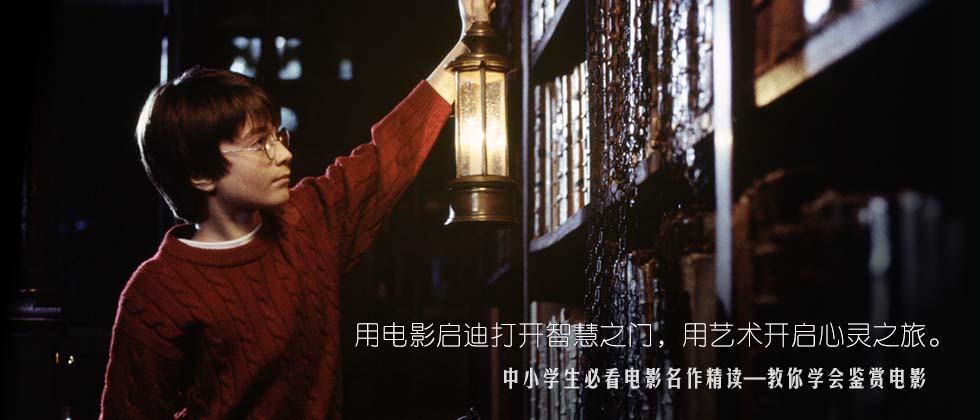
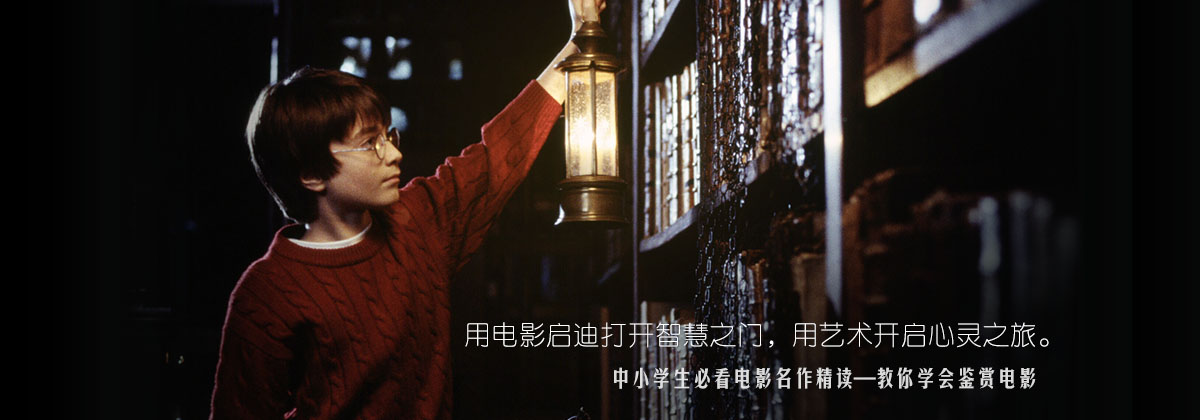
那好首页 轮播图 更改

diff --git a/application/views/www/studentHomePage/index.html b/application/views/www/studentHomePage/index.html
@@ -21,18 +21,15 @@
 		<div class="roll">
 			<ul class="cf">
 				<li class="fl rollshow" style="background:url({$static_url}{$static_version}/images/studentHomePage/roll/rollBg1.gif);">
-					<a target="_blank" href="{$course_url}ke_1.html">
-						<img src="{static_url('/images/studentHomePage/roll/roll1.jpg')}">
+					<a target="_blank" href="{$course_url}ke_1.html" class="roll1">
 					</a>
 				</li>
-				<li class="fl" style="background:#000000;">
-					<a target="_blank" href="{$course_url}ke_2.html">
-						<img src="{static_url('/images/studentHomePage/roll/roll2.jpg')}">
+				<li class="fl">
+					<a target="_blank" href="{$course_url}ke_2.html" class="roll2">
 					</a>
 				</li>
-				<li class="fl" style="background:#5f5d6a;">
-					<a target="_blank" href="{$course_url}ke_4.html">
-						<img src="{static_url('/images/studentHomePage/roll/roll3.jpg')}">
+				<li class="fl">
+					<a target="_blank" href="{$course_url}ke_4.html" class="roll3">
 					</a>
 				</li>
 			</ul>
@@ -123,8 +120,8 @@
 				<span class="fl"></span>
 				<span class="fr"></span>
 				<div class="coopere cf">
-					<h3 class="fl">徐小平老师天使投资</h3>
-					<h3 class="fl">龚海燕（小龙女）倾心创办</h3>
+					<h3 class="fl">徐小平天使投资</h3>
+					<h3 class="fl">龚海燕倾心创办</h3>
 					<h3 class="fl">北京大学教育学院战略合作</h3>
 				</div>
 			</div>

diff --git a/static/debug/css/studentHomePage/homePage.css b/static/debug/css/studentHomePage/homePage.css
@@ -3,11 +3,13 @@
 /* ´óÍ¼¹ö¶¯ ¿ªÊ¼*/
 .studentHomePage .roll{ overflow: hidden;position: relative;}
 .studentHomePage .roll ul{ width:100%;overflow:hidden;height:420px;}
-.studentHomePage .roll img{ height:420px;width: 980px;}
 .studentHomePage .rollNav{ position: absolute;bottom:12px;z-index: 300;left:50%;margin-left: -40px;}
 .studentHomePage .roll ul li{ position:absolute;opacity:0;width:100%;}
 .studentHomePage .roll ul li.rollshow{ opacity:1;z-index: 2;}
-.studentHomePage .roll ul li a{display: block;text-align: center;}
+.studentHomePage .roll ul li a{display: block;text-align: center;height: 420px;}
+.studentHomePage .roll ul li a.roll1{background: url(../../images/studentHomePage/roll/roll1.jpg) center top no-repeat;}
+.studentHomePage .roll ul li a.roll2{background: url(../../images/studentHomePage/roll/roll2.jpg) center top no-repeat #000;}
+.studentHomePage .roll ul li a.roll3{background: url(../../images/studentHomePage/roll/roll3.jpg) center top no-repeat #5f5d6a;}
 .studentHomePage .rollNav li{ width:12px; height:12px;margin-right:14px;border: 1px solid #f14211;border-radius: 7px;background: #fff;cursor: pointer;}
 .studentHomePage .rollNav li.active{ background:#f14211;}
 /* ´óÍ¼¹ö¶¯ ½áÊø*/
